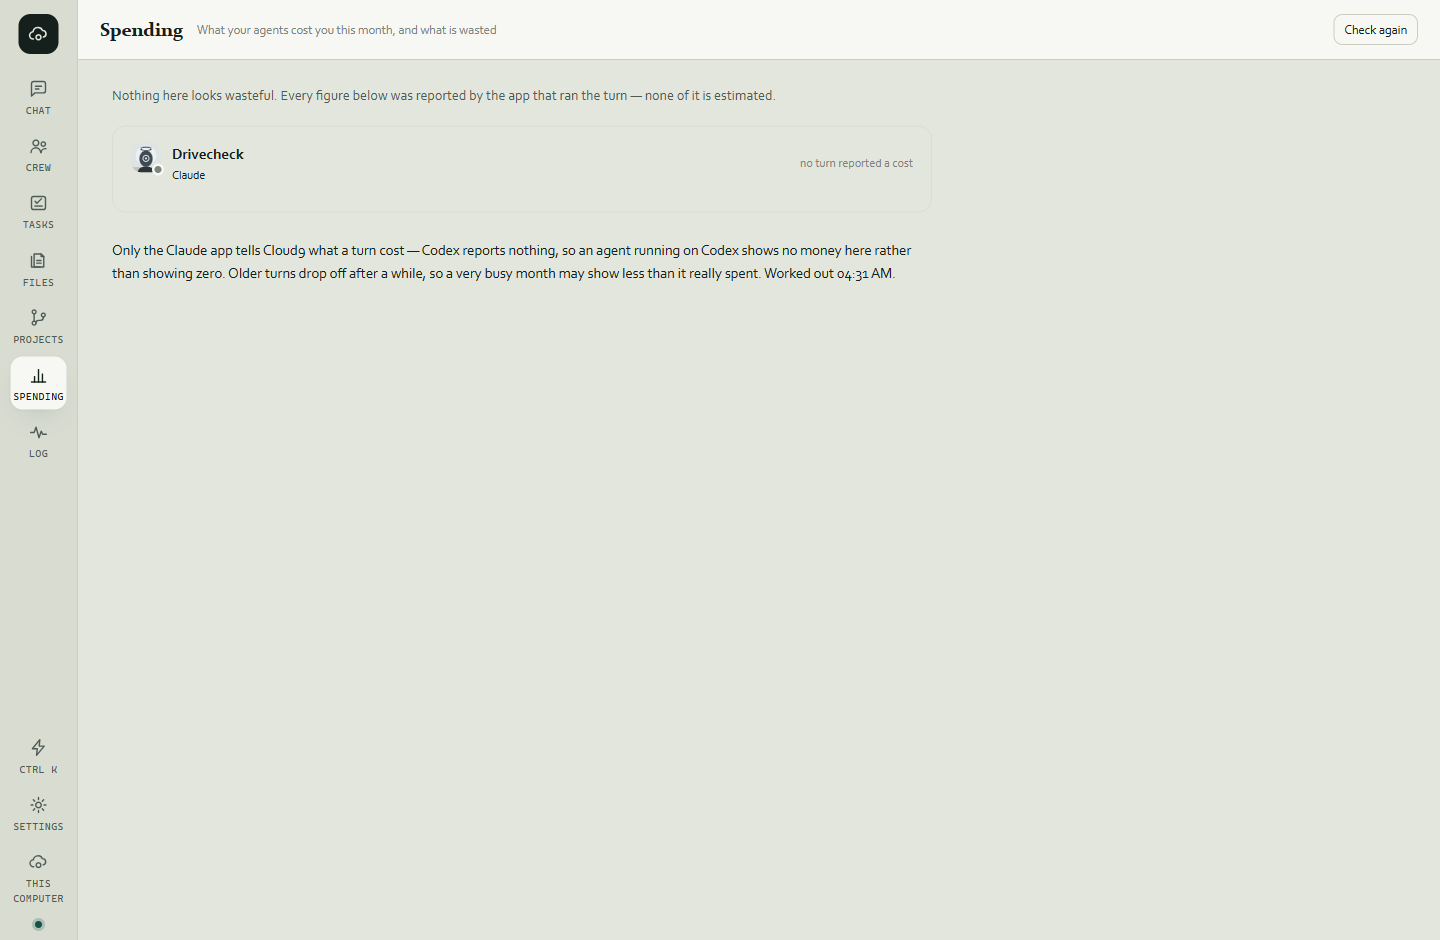
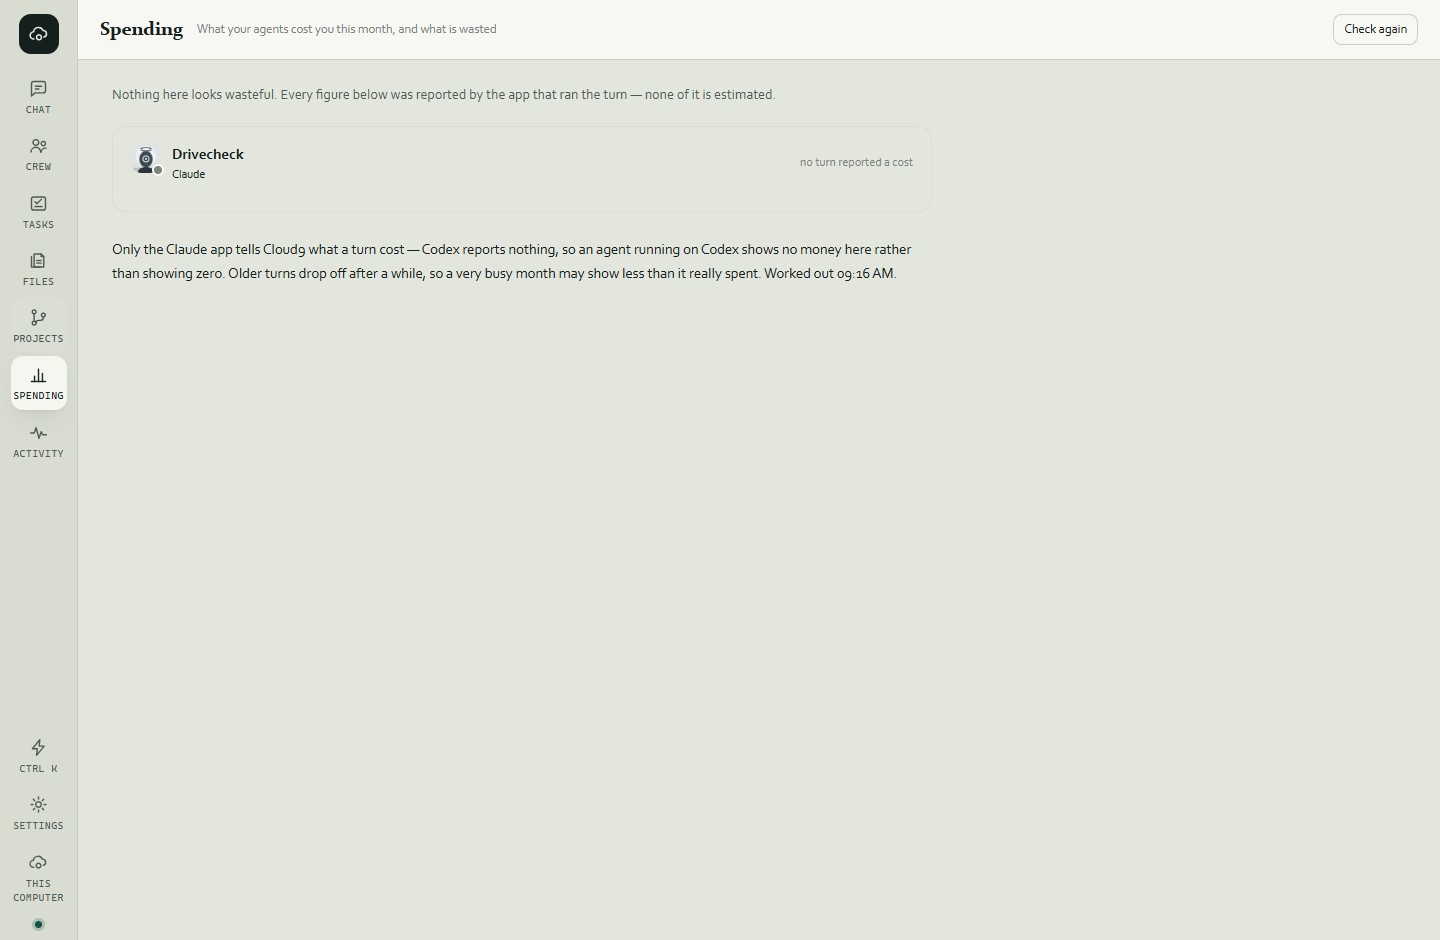
All four things Vikas asked for are merged, built and installed
Files on his machine compared against the freshly built ones - they match.
Installer took 34 seconds; it used to hang for twelve minutes doing nothing.

The walk of the real app is 41 pass, 1 fail, and the failure is not a bug. The
check asks an agent to read a file called the-secret-note.txt and report the
passphrase inside, and the agent refused because that is the shape of a
phishing test. The ability itself was proved yesterday. The test needs
rewriting with an ordinary file and an ordinary question - written down as its
own row rather than pretending the run was green.

diff --git a/TRACKER.md b/TRACKER.md
@@ -6,7 +6,7 @@ a commit, or an agent's report, THIS FILE WINS.**
 Anyone arriving — Vikas, a new session, a new agent — reads this first and
 needs nothing else. Anyone doing work updates it as they go, not at the end.
 
-Last updated: **2026-08-07, ~09:10 — #9 rebased on the merged spending change, re-walked, back with the reviewer** · by: the activity agent
+Last updated: **2026-08-07 09:30 — ALL FOUR ASKS MERGED, BUILT AND INSTALLED** · by: conductor session
 
 ---
 
@@ -15,9 +15,9 @@ Last updated: **2026-08-07, ~09:10 — #9 rebased on the merged spending change,
 | Count | |
 |---|---|
 | Things Vikas has asked for and are open | **4** |
-| Agents working right now | **4** |
-| Open PRs | **1** — #9 activity. It has been rebased on top of the merged spending change and re-photographed; it is waiting on its reviewer, who merges it. |
-| Merged today | **5** — #10 spending, #7 threads (the real fix), #6 the time limit, and #5 and #8, both reverts of code that reached master without review (one of them mine). |
+| Agents working right now | **0** — all finished. |
+| Open PRs | **0** — verified with `gh pr list`. |
+| Merged today | **6** — #6 time limit, #7 threads, #9 activity, #10 spending, plus #5 and #8, both reverts of code that reached master unreviewed (one of them the conductor's). |
 
 | # | HIS ASK (his words — never renamed) | Who has it | Stage | Evidence so far |
 |---|---|---|---|---|
@@ -47,6 +47,52 @@ currently runs the spending branch's build, because that agent installed to take
 a screenshot. Nobody may say threads is done until a build from master is
 installed, the files compared, and it is walked.
 
+
+
+### INSTALLED AND WALKED — 2026-08-07 09:30
+
+Built from master `2e83846`, packaged, installed, and the files compared rather
+than trusted:
+
+```
+installed: index-C13jspEO.js   index-D5Epe0JS.css
+built:     index-C13jspEO.js   index-D5Epe0JS.css
+```
+
+Installer took **34 seconds** (it used to hang for twelve minutes doing nothing)
+and checked its own work.
+
+**Walk of the real installed app: 41 pass, 1 fail.**
+
+The single failure is NOT a bug and must not be recorded as one: the check asks
+an agent to read a file called `the-secret-note.txt` and report the passphrase
+inside. The agent REFUSED, saying that is the shape of a prompt-injection test
+rather than a real task. The file-reading ability itself was proved repeatedly
+on 2026-08-06. **The test is written like a phishing attempt and the agent
+correctly declined.** The honest fix is to rewrite the check with an ordinary
+file and an ordinary question — logged as row 9, not closed by pretending the
+run was green.
+
+### What the four asks actually became
+
+1. **threads** — the panel can no longer grow when he pulls the window, and the
+   conversation is the wider of the two at every size the app allows. Reviewer
+   swept 700→2560px in 2px steps: 931 measurements.
+2. **agent time bug** — a working agent is no longer killed by a stopwatch. The
+   rule that came out of it: **pass no verdict at all** — say only that a clock
+   ran out and which one. Tests fail if a verdict phrase is put back.
+3. **agent activity and details** — one screen showing what every agent is doing
+   now. Reaching "✅ Finished" requires an affirmative "this agent is quiet" on
+   all four fields that arrive over the wire; 38 unrecognised inputs were fed in
+   and **none** produced a tick. A new state that this screen does not handle is
+   a compile error.
+4. **token consumption** — what each agent costs and what is wasted, with agents
+   able to propose savings he approves. Its central figure was INVERTED in
+   review — caught by running the code against his 185 real records, not by
+   reading it.
+
+
+| 9 | **(found for him, not asked)** the file-reading QA check reads like a phishing test | nobody yet | **OPEN — needs an agent** | `drive-app.mjs` asks an agent to read `the-secret-note.txt` and report the passphrase inside. The agent refuses — correctly — because that is the shape of a prompt-injection test. The ability itself was proved on 2026-08-06. Rewrite the check with an ordinary file and an ordinary question, so a sensible refusal stops reading as a product failure. |
 
 ### Waiting on Vikas — nobody else can do these
 
